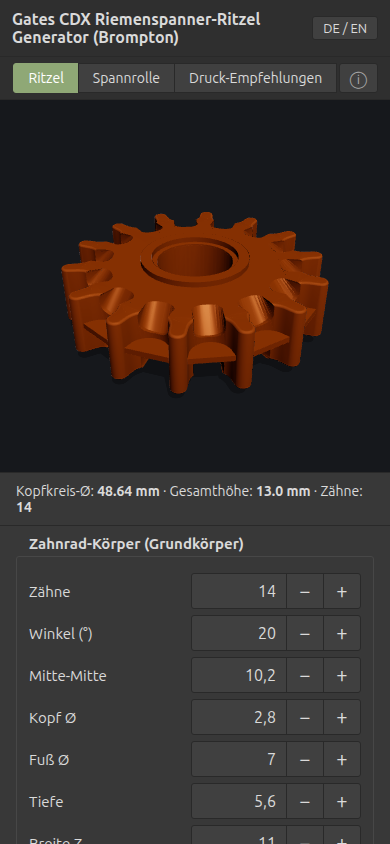
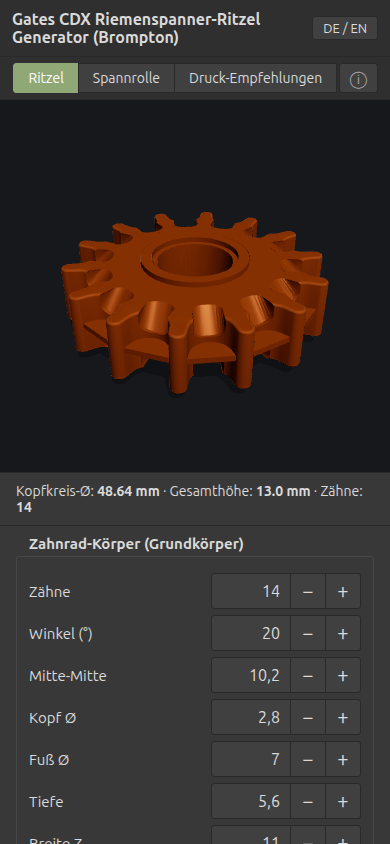
Beschriftungen in eine Zeile: kurze Labels, Erklaerung als Tooltip und Hinweis
Riemenfuehrung Breite/Ø ohne (0=...) im Label; die Bedeutung steht im Tooltip
und im Erklaertext (hint_guide). Formular 380px breit. Gilt fuer Web, Android
und Linux-App (liest die Labels aus der Seite). Linux-App startet aus dem
Projektordner mit der Projekt-web/. Bilder neu.

diff --git a/web/js/i18n.js b/web/js/i18n.js
@@ -62,8 +62,11 @@ export const i18n = {
       depth: 'Tiefe',
       width_z: 'Breite Z',
       tooth_round: 'Zahn-Rundung',
-      guide_width: 'Riemenführung Breite (0=ohne)',
-      guide_d: 'Riemenführung Ø (0=automatisch)',
+      guide_width: 'Riemenführung Breite',
+      guide_width_tip: '0 = ohne Ring',
+      guide_d_tip: '0 = automatisch (passt sich dem Zahnkranz an)',
+      hint_guide: 'Riemenführung = der mittlere Führungsring für den Gates-Riemen. Breite 0 = kein Ring. Ø 0 = automatisch, der Ring passt sich dem Zahnkranz an.',
+      guide_d: 'Riemenführung Ø',
       bore_d: 'Bohrung Ø',
       hub_d: 'Nabe Ø',
       hub_len: 'Nabe Länge',
@@ -163,8 +166,11 @@ export const i18n = {
       depth: 'Depth',
       width_z: 'Width Z',
       tooth_round: 'Tooth rounding',
-      guide_width: 'Belt guide width (0=none)',
-      guide_d: 'Belt guide Ø (0=auto)',
+      guide_width: 'Belt guide width',
+      guide_width_tip: '0 = no ring',
+      guide_d_tip: '0 = automatic (adapts to the tooth rim)',
+      hint_guide: 'Belt guide = the central guide ring for the Gates belt. Width 0 = no ring. Ø 0 = automatic, the ring adapts to the tooth rim.',
+      guide_d: 'Belt guide Ø',
       bore_d: 'Bore Ø',
       hub_d: 'Hub Ø',
       hub_len: 'Hub length',
@@ -228,6 +234,7 @@ export function updateUI() {
   }
   document.getElementById('hint4').textContent = t('hint4');
   document.getElementById('hint1').textContent = t('hint1');
+  const hg = document.getElementById('hint_guide'); if (hg) hg.textContent = t('hint_guide');
   document.getElementById('hint2').textContent = t('hint2');
   document.getElementById('hint3').textContent = t('hint3');
   document.getElementById('overlaynote').textContent = t('overlay');

diff --git a/web/css/style.css b/web/css/style.css
@@ -34,7 +34,7 @@ header h1 { font-size: 16px; margin: 0; }
 header .sub { color: var(--muted); font-size: 13px; }
 main { flex: 1; display: flex; min-height: 0; }
 #form {
-  width: 340px; overflow-y: auto; padding: 12px 16px;
+  width: 380px; overflow-y: auto; padding: 12px 16px;
   border-right: 1px solid var(--border); background: var(--panel);
 }
 #viewport { flex: 1; position: relative; min-width: 0; }
@@ -56,7 +56,7 @@ legend + * { clear: both; }
 }
 .row label { font-size: 14px; flex: 1; }
 /* Drehfeld: Wert rechtsbündig, daneben − und + (fields.js: spinFeld) */
-.spin { display: flex; flex: 0 0 auto; width: 150px; }
+.spin { display: flex; flex: 0 0 auto; width: 140px; }
 .row input {
   flex: 1; min-width: 0; width: 0; padding: 5px 8px; border: 1px solid var(--border);
   border-radius: 3px 0 0 3px; background: var(--base); color: var(--text);
@@ -296,9 +296,9 @@ a.btn.primary, #stlbtn {
   .row { margin: 6px 0; }
   .row label { font-size: 15px; }
   /* 16px verhindert den Auto-Zoom beim Antippen auf iOS */
-  .spin { width: 170px; }
+  .spin { width: 150px; }
   .row input { padding: 8px 10px; font-size: 16px; }
-  .spinbtn { width: 38px; flex-basis: 38px; font-size: 20px; }
+  .spinbtn { width: 36px; flex-basis: 36px; font-size: 20px; }
   legend { font-size: 15px; }
   button, a.btn { padding: 12px; font-size: 16px; }
   #overlaynote { display: none; }

diff --git a/web/js/fields.js b/web/js/fields.js
@@ -105,6 +105,9 @@ export function buildFormFields(onChange, bauteil = STANDARD_BAUTEIL) {
     for (const [key, labelKey, def, step] of felder) {
       const row = document.createElement('div'); row.className = 'row';
       const lab = document.createElement('label'); lab.textContent = t(labelKey); lab.htmlFor = key;
+      // Kurze Beschriftung + Tooltip: „0 = …“ passt nicht in die Zeile (labelKey_tip).
+      const tip = t(labelKey + '_tip');
+      if (tip !== labelKey + '_tip') lab.title = tip;
       const inp = document.createElement('input');
       inp.type = 'number'; inp.id = key; inp.value = def; inp.step = step;
       if (key === 'zaehne' && g) {
@@ -120,6 +123,7 @@ export function buildFormFields(onChange, bauteil = STANDARD_BAUTEIL) {
           onChange();
         });
       }
+      if (lab.title) inp.title = lab.title;
       inp.addEventListener('input', onChange);
       row.append(lab, spinFeld(inp)); sec.append(row);
       inputs[key] = inp;

diff --git a/web/index.html b/web/index.html
@@ -34,7 +34,9 @@
   <div id="form">
     <div class="stats" id="stats"></div>
 
-    <fieldset id="sec1"><legend id="leg1">Zahnrad-Körper (Grundkörper)</legend></fieldset>
+    <fieldset id="sec1"><legend id="leg1">Zahnrad-Körper (Grundkörper)</legend>
+      <div class="hint" id="hint_guide"></div>
+    </fieldset>
     <fieldset id="sec4"><legend id="leg4">Speichen (Material sparen)</legend>
       <div class="hint" id="hint4">0 = aus. Sinnvoll ab 17 Zähnen — darunter bleibt der Steg automatisch voll.</div>
     </fieldset>

diff --git a/linux/ritzel-generator.py b/linux/ritzel-generator.py
@@ -91,9 +91,11 @@ JS_ZUSTAND = """(function(){
 
 
 def finde_web():
+    # Reihenfolge: ausdrücklich gesetzt, dann das Projekt neben diesem Skript
+    # (Start aus dem Quellordner), zuletzt die installierte Kopie.
     for p in (os.environ.get('RITZEL_WEB'),
-              '/usr/share/ritzel-generator/web',
-              os.path.join(HIER, '..', 'web')):
+              os.path.join(HIER, '..', 'web'),
+              '/usr/share/ritzel-generator/web'):
         if p and os.path.isfile(os.path.join(p, 'index.html')):
             return os.path.abspath(p)
     sys.exit('web/index.html nicht gefunden')

diff --git a/CLAUDE.md b/CLAUDE.md
@@ -73,6 +73,9 @@ Erneuern: neues Token anlegen, dann im Ordner `worker/` `npx wrangler secret put
 - Vor dem Ändern die passende README lesen — nicht raten, was „die App“ ist.
 - „Linux-App“ oder „PC-App“ heißt immer die GTK-Anwendung in `linux/`, nie die Webseite in Chrome.
 - Downloads/Installationen (SDK, Pakete) nur mit ausdrücklichem Ja.
+- Feldbeschriftungen kurz halten (eine Zeile, ca. 20 Zeichen): Zusätze wie „0 = …“ gehören in den Tooltip (`<key>_tip` in `i18n.js`) und in den Erklärtext (ⓘ), nicht ins Label. Gilt für Web, Android, Linux-App (liest die Labels aus der Seite) und FreeCAD (`params.json`, Feld `de`).
+- Start der Linux-App aus dem Projektordner nutzt die Projekt-`web/`, nicht die installierte Kopie (`finde_web` in `linux/ritzel-generator.py`).
+- Nie Prozesse per Namensmuster beenden (`pkill -f`, `ps|awk|kill`): das trifft auch Programme des Nutzers (z. B. die installierte Linux-App) und die eigene Shell. Nur gezielt per PID, die man selbst gestartet hat.
 - Prüfung der Web-Oberfläche: Testserver `python3 tools/dev-server.py 8765` (oder `preview_start web`).
 - `npm test` braucht Node ≥ 20 (hier läuft Node 18 → Test bisher nicht ausgeführt).
 - Android-Emulator (`~/Android/Sdk`, AVD `ritzel`, Android 14) ist eingerichtet, stürzte aber beim ersten Test ab; App dort noch nicht geprüft.
